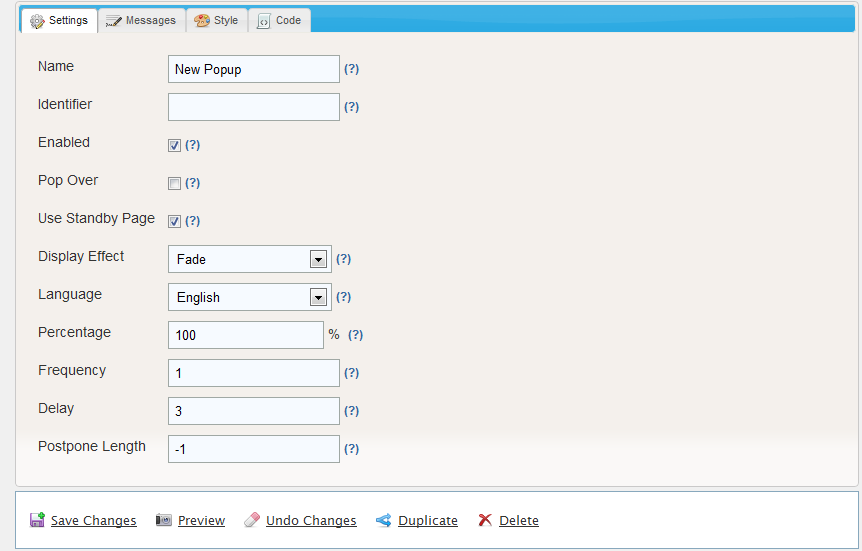
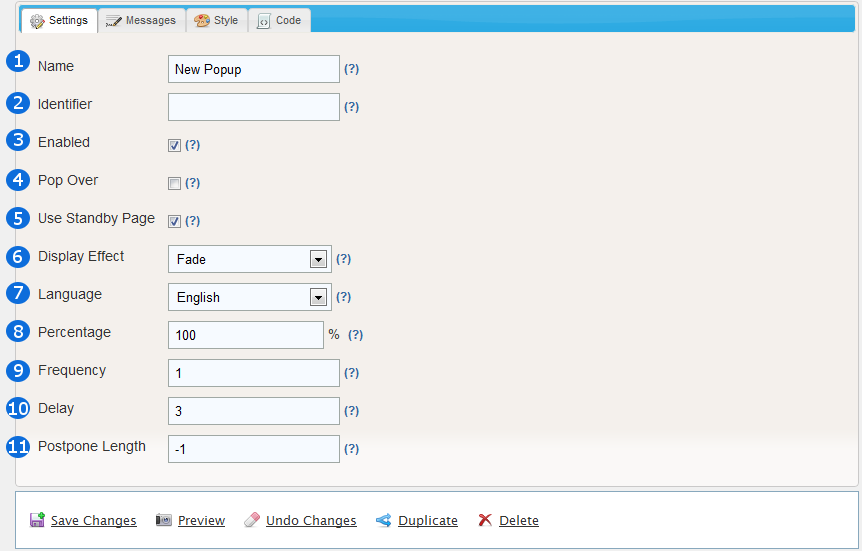
done publish deployment

diff --git a/chapters/Publish/deployment.rst b/chapters/Publish/deployment.rst
@@ -97,16 +97,126 @@ FluidSurveys’ comes equipped with an invitation module through which survey li
 Custom Survey Panel
 ^^^^^^^^^^^^^^^^^^^
 
+In the past, when you wanted to collect responses from a target audience, eg., Females ages 24-34 who live in Alaska, United States), you'd have to create your own survey in FluidSurveys, and then work with an external panel management company, or list provider to start collecting responses. But, collecting responses from your target audeicne is possible within the Custom Survey Panel via CINT.
 
-3 part process
+Custom Survey Panel is available on all plans, including Free, and the cost associated with each "Completed" response is based on the type of respondent segment that you are going after (Some segments will be more expensive than other segments -- this is mainly determined by supply/demand in the response marketplace)
 
-Collecting responses from your target audience 
+.. figure:: ../../resources/publish/cint_create_an_order.png
+	:scale: 70%
+	:align: center
+	:class: screenshot
+	:alt: Place an order for CINT
 
+	*Figure 9.1* Create a CINT order
+
+**Step 1: Basics**
+
+The new dialog that apperas after "Create an order" was clicked is Step 1 of 3. Basics is where you begin outlining your high-level target audience, ie., Country, Region, the number of questions you will be asking, along with the age group. Using the aforementioned example, Females ages 24-34, who live in Alaska, United Stated, an order would look as follows.
+
+.. figure:: ../../resources/publish/cint_step1_basics.png
+	:scale: 70%
+	:align: center
+	:class: screenshot
+	:alt: Step 1 Basics
+
+	*Figure 9.1* Basic Target Demographic
+
+.. list-table:: 
+	:widths: 30 70
+	:header-rows: 1
+
+	* - Section
+	  - Description
+	* - 1. Country
+	  - Choose where you wish to run your survey. If you would like to conduct your survye in more than one region, we suggest you create a different target group for each selection. The cost of running two separate selections is the same as running one larger selection
+	* - 2. Region
+	  - Select the region of your target group. If you would like to conduct your survye in more than one region, we suggest you create a different target group for each selection. The cost of running two separate selections is the same as running one larger selection
+	* - 3. Gender
+	  - Select the gender of your target group. If you would like to specify the exact distribution between genders, we suggest you create a different target group for each selection. For example, if you wish to get 200 answers from females and 300 answers from males, place two oders with 200 females and 300 males respectively. The cost of running two separate selections is the same as running one larger selection
+	* - 4. Age Range
+	  - CHoose the age range for the target group. If you would like to specifiy the exact distribution between age groups, create a different target group for each selection. For example, if you wish to get 200 answers from poepple in age range 18-22 and 300 answers from peoeple in the age range 23-27, place two orders with 200 and 300 answers repsctively. The cost of running two sepaate selections is the same as runing one larger selection
+	* - 5. Completed Surveys Needed
+	  - 
+	* - 6. Price
+	  - The price is instnatly and automatically calculated when you define your target group. Since the process is automated from start-to-finish there are no project costs, set-up costs, minimum or hidden fees. More respondents, longer surveys and narrower target group yields a higher pricer. Why is that? Cint pays incentives to panelists and panel owners when participating in your survey. We pay more for a larger group, for a longer survye and for people harder to find.
+	* - 7. Delivery Time
+	  - Delivery time is calculated based upon your search criteria and our current available respondents
+	* - 8. Available Respondents
+	  - This is the current number of available **respondents completing your survey (completes)** for your selected target group wiehtin the delivery time shown above. To clarify, if you order 500 completed surveys, Cint will continue to send respondents to your survey until 500 respondents have fully completed your survey.
+
+.. warning::
+
+	If your target audience is unavailable, a warning will appear at the bottom stating the base minimum available for your desired group.
+
+	.. image:: ../../resources/publish/cint_basics_error.png
+		:scale: 70%
+		:align: center
+		:class: screenshot
+		:alt: Step 1 Basics
+
+Once the Basics have been outlined, clicking [Continue] will allow for a deeper customization of finding that desired target group. 
+
+** Step 2: Profiling**
+
+.. figure:: ../../resources/publish/cint_step2_profiling.png
+	:scale: 70%
+	:align: center
+	:class: screenshot
+	:alt: Step 2 Profiling
+
+	*Figure 9.1* Profiling Target Audience
+
+.. list-table:: 
+	:widths: 30 70
+	:header-rows: 1
+
+	* - Section
+	  - Description
+	* - 1. Standard Demographics and Occupation Status
+	  - Education level or 
+	* - 2. Household
+	  - Maritial Status, Houshold size, Number of children, Ages of children, Personal income, Household income.
+	* - 3. Profession
+	  - Company size, Field of expertise, Professional position in company
+	* - 4. Transportation
+	  - Car access, Access to motorcycle, Purpose of travelling by plane
+	* - 5. Other
+	  - Glasses/Contact lenses, Smoking habits, Use of mobile phone features
+
+**Overview**
+
+Once your target demographic has been fully finalized, clicking [Continue] brings you to the Overview screen which allows for you to double-check that your survey is indeed tailored for the desired target group.
+
+.. figure:: ../../resources/publish/cint_step3_overview.png
+	:scale: 70%
+	:align: center
+	:class: screenshot
+	:alt: Step 3 Overview
+
+	*Figure 9.1* Overview before purchasing
+
+**Buy**
+
+The last step is providing payment options. Available payment plans are:
+
+	* Mastercard
+	* Visa
+	* PayPal
+
+Clicking [Process my order] will return you to the first screen, only this time you will see your order. Depending on the defined time, ie., 8 days, you will start to see responses trickle into your survey. 
+
+.. figure:: ../../resources/publish/cint_overview_payment.png
+	:scale: 70%
+	:align: center
+	:class: screenshot
+	:alt: Step 4 Payment Overview
+
+	*Figure 9.1* Overview of purchased order
 
 Website Popups
 ^^^^^^^^^^^^^^
 
-Popups can be the fastest, and eastiest and most effective way for site visitors to come back. Track visitor opinions, gauge trend popularity, and find out what your web site visitors are thinking with a FluidSurveys survey and a Popup. One way to distribute a survey is via a pop-up window on your website. 
+Popups can be the fastest, and easiest and most effective way for site visitors to come back. Track visitor opinions, gauge trend popularity, and find out what your web site visitors are thinking with a FluidSurveys survey and a Popup. One way to distribute a survey is via a pop-up window on your website. A common use of popups is to ask the user why they are viewing a certain item in the "Store" page, or what the visitor would like to see on your web site to guarantee that they will/would return.
 
 .. figure:: ../../resources/publish/pop_up.png
 	:scale: 70%
@@ -117,6 +227,8 @@ Popups can be the fastest, and eastiest and most effective way for site visitors
 	*Figure 9.1* How a popup looks like
 
 Click "Add new popup" to get started. A new screen will slowly fade into view, which contains all necessary control options as defined below.
+
+**Settings**
 
 .. figure:: ../../resources/publish/popup_settings.png
 	:scale: 70%
@@ -154,16 +266,72 @@ Click "Add new popup" to get started. A new screen will slowly fade into view, w
 	  - Delay (in seconds) before the popup will appear to a visitor on your page
 	* - 11. Postpone Length
 	  - The length of time (in hours) before a user will be eligible to see the popup again after they were not shown it based on either frequency or percentage limitations. Set this to -1 and the user will not see the popup a second time, unless they clear htier cookies.
-	* - 12. Save Changes
-	  - Save all changes done
-	* - 13. Preview
-	  - Preview how your popup will look like
-	* - 14. Undo Changes
-	  - Undo all changes
-	* - 15. Duplicate
-	  - Duplicate this popup
-	* - 16. Delete
-	  - Delete this popup
+
+**Messages**
+
+Once the functionality, settings, and your desired outcome has been tailored and tweaked, the message can be modified by clicking on the Messages tab at the top. Messages allows for the overall message to be tweaked, which allows for the target audience to instnatly become connected with wording provided on the initial popup. 
+
+.. figure:: ../../resources/publish/popup_messages.png
+	:scale: 70%
+	:align: center
+	:class: screenshot
+	:alt: Messages popup
+
+	*Figure 9.1* Available message settings for a popup
+
+.. list-table:: 
+	:widths: 30 70
+	:header-rows: 1
+
+	* - Section
+	  - Description
+	* - 1. Header
+	  - The text in the header of the popup, usually one line which will draw the user's attention and cause them to read the rest of htem message below
+	* - 2. Message
+	  - THe text in the main content of the popup. This is the greeting you will give your user and ask them to take their survey, possibly providing some information about the survey, and why it is being taken.
+	* - 3. Yes Button
+	  - The text displayed on the button that the user will click to take the survey
+	* - 4. No Button
+	  - The text displayed on the button that the user will click to opt out of taking the survey
+	* - 5. Standby Mesage
+	  - This text will be displayed in the window that sits in the background while the user finishes browsing the site. It should contain a word or phrase surrounded by [[ ]]. This text will be linked to the survey URL, allowing the user to being the survey immediately instead of waiting until they leave the site. **Example:** "Click [[ here ]] to begin your survey"
+
+**Style**
+
+Styling your popup can ensure that the maximum amount of visitors take your survey. While the width and height can be altered on the "Settings" tab, the ability to affect the Overall colour, height, border is possible. 
+
+**Code**
+
+The final step before publishing your popup survey on your web site, is to link your web site up, with your popup, using the provided "Code"
+
+.. figure:: ../../resources/publish/popup_code.png
+	:scale: 70%
+	:align: center
+	:class: screenshot
+	:alt: Messages popup
+
+	*Figure 9.1* Available message settings for a popup
+
+.. list-table:: 
+	:widths: 30 70
+	:header-rows: 1
+
+	* - Section
+	  - Description
+	* - 1. HTML Code
+	  - This is the code you will need to paste in your website to trigger the popup
+	* - 2. Prevent Popup Code
+	  - Place this code at the top of a page which you would like to disable the popup for that user. For example, if you have a user who lands on your pricing page, and you do not want this person to see the popup now, put this code on your pricing page.
+
+At any point during the process of creating, adjusting and tweaking your popup, it is always encouraged to save any work completed thus far. At the bottom of the "New Popup" screen, is a "Options" dial, that contains *Save Changes*, *Preview*, *Undo Changes*, *Duplicate*, *Delete*
+
+.. figure:: ../../resources/publish/popup_save.png
+	:scale: 70%
+	:align: center
+	:class: screenshot
+	:alt: Save your popup settings
+
+	*Figure 9.1* Save your popup
 
 Create a 2D Bar Code
 ^^^^^^^^^^^^^^^^^^^^
@@ -235,3 +403,18 @@ To perform a social network release, click on “Publish” and then select whic
 
 Kiosk Mode
 ^^^^^^^^^^
+
+Deploying your survey in kiosk mode allows you to assign a short survey as an "entrance" survey. The entrance survey runs only "one time" when you first run your survey and then the torch is passed to your main survey. Your main survey will then run in a loop. The responses to the entrance survey will be pre-pended to all responses gathered in that session. 
+
+.. figure:: ../../resources/publish/kiosk_mode.png
+	:scale: 70%
+	:align: center
+	:class: screenshot
+	:alt: Kiosk Mode
+
+	*Figure 9.1* Kiosk Mode with "Survey #1" prepended
+
+The path a respondent will take is that "Survey #1" will be taken once, while the actual survey will constantly loop with a 5 minute timeout timer attached. The first survey is generally a "Location Survey", ie., "Where is this Kiosk located?". Therefore, all responses will have the location prepended. Kiosk mode is perfect for running your survey at a central terminal/computer, whether it’s at a tradeshow, conference, store, etc.
+
+When kiosk mode is enabled, your survey runs in a loop. Every time a survey response is completed, it automatically refreshes so the next respondent can begin. This allows multiple people to take the survey from one location with ease!
+

diff --git a/chapters/Tutorials/index.rst b/chapters/Tutorials/index.rst
@@ -3,31 +3,6 @@
 Tutorials
 =========
 
-
-Creating Surveys
-----------------
-
-
-Multi-language Surveys
-----------------------
-
-How it works
-
-The survey language option essentially changes the default messages provided by FluidSurveys. When that specific langauge is applied, we provided translated default messages for the following areas:
-
-.. admonition:: Translated Sections
-	
-	1. Navitation Buttons
-	2. Yes/No Question Type
-	3. Validation error messages
-
-
-
-
-
-**Note:** adding a language does not automatically transate the survey design, ie., questions and answers into another language.
-
-
 Import from Survey Monkey
 -------------------------
 
@@ -75,26 +50,3 @@ Log into your FluidSurveys account, and select “Create New Survey”. Then, se
 		:class: screenshot
 
 Upload the zip file you had downloaded from Survey Monkey, and that’s it! All of your survey questions and responses will be imported into FluidSurveys.
-
-Survey Role Management
-----------------------
-
-
-Styling a Survey
-----------------
-
-
-Analyzing Results
------------------
-
-
-Publishing a Survey
--------------------
-
-
-Invite Respondents
-------------------
-
-
-Basic Skipping
---------------
